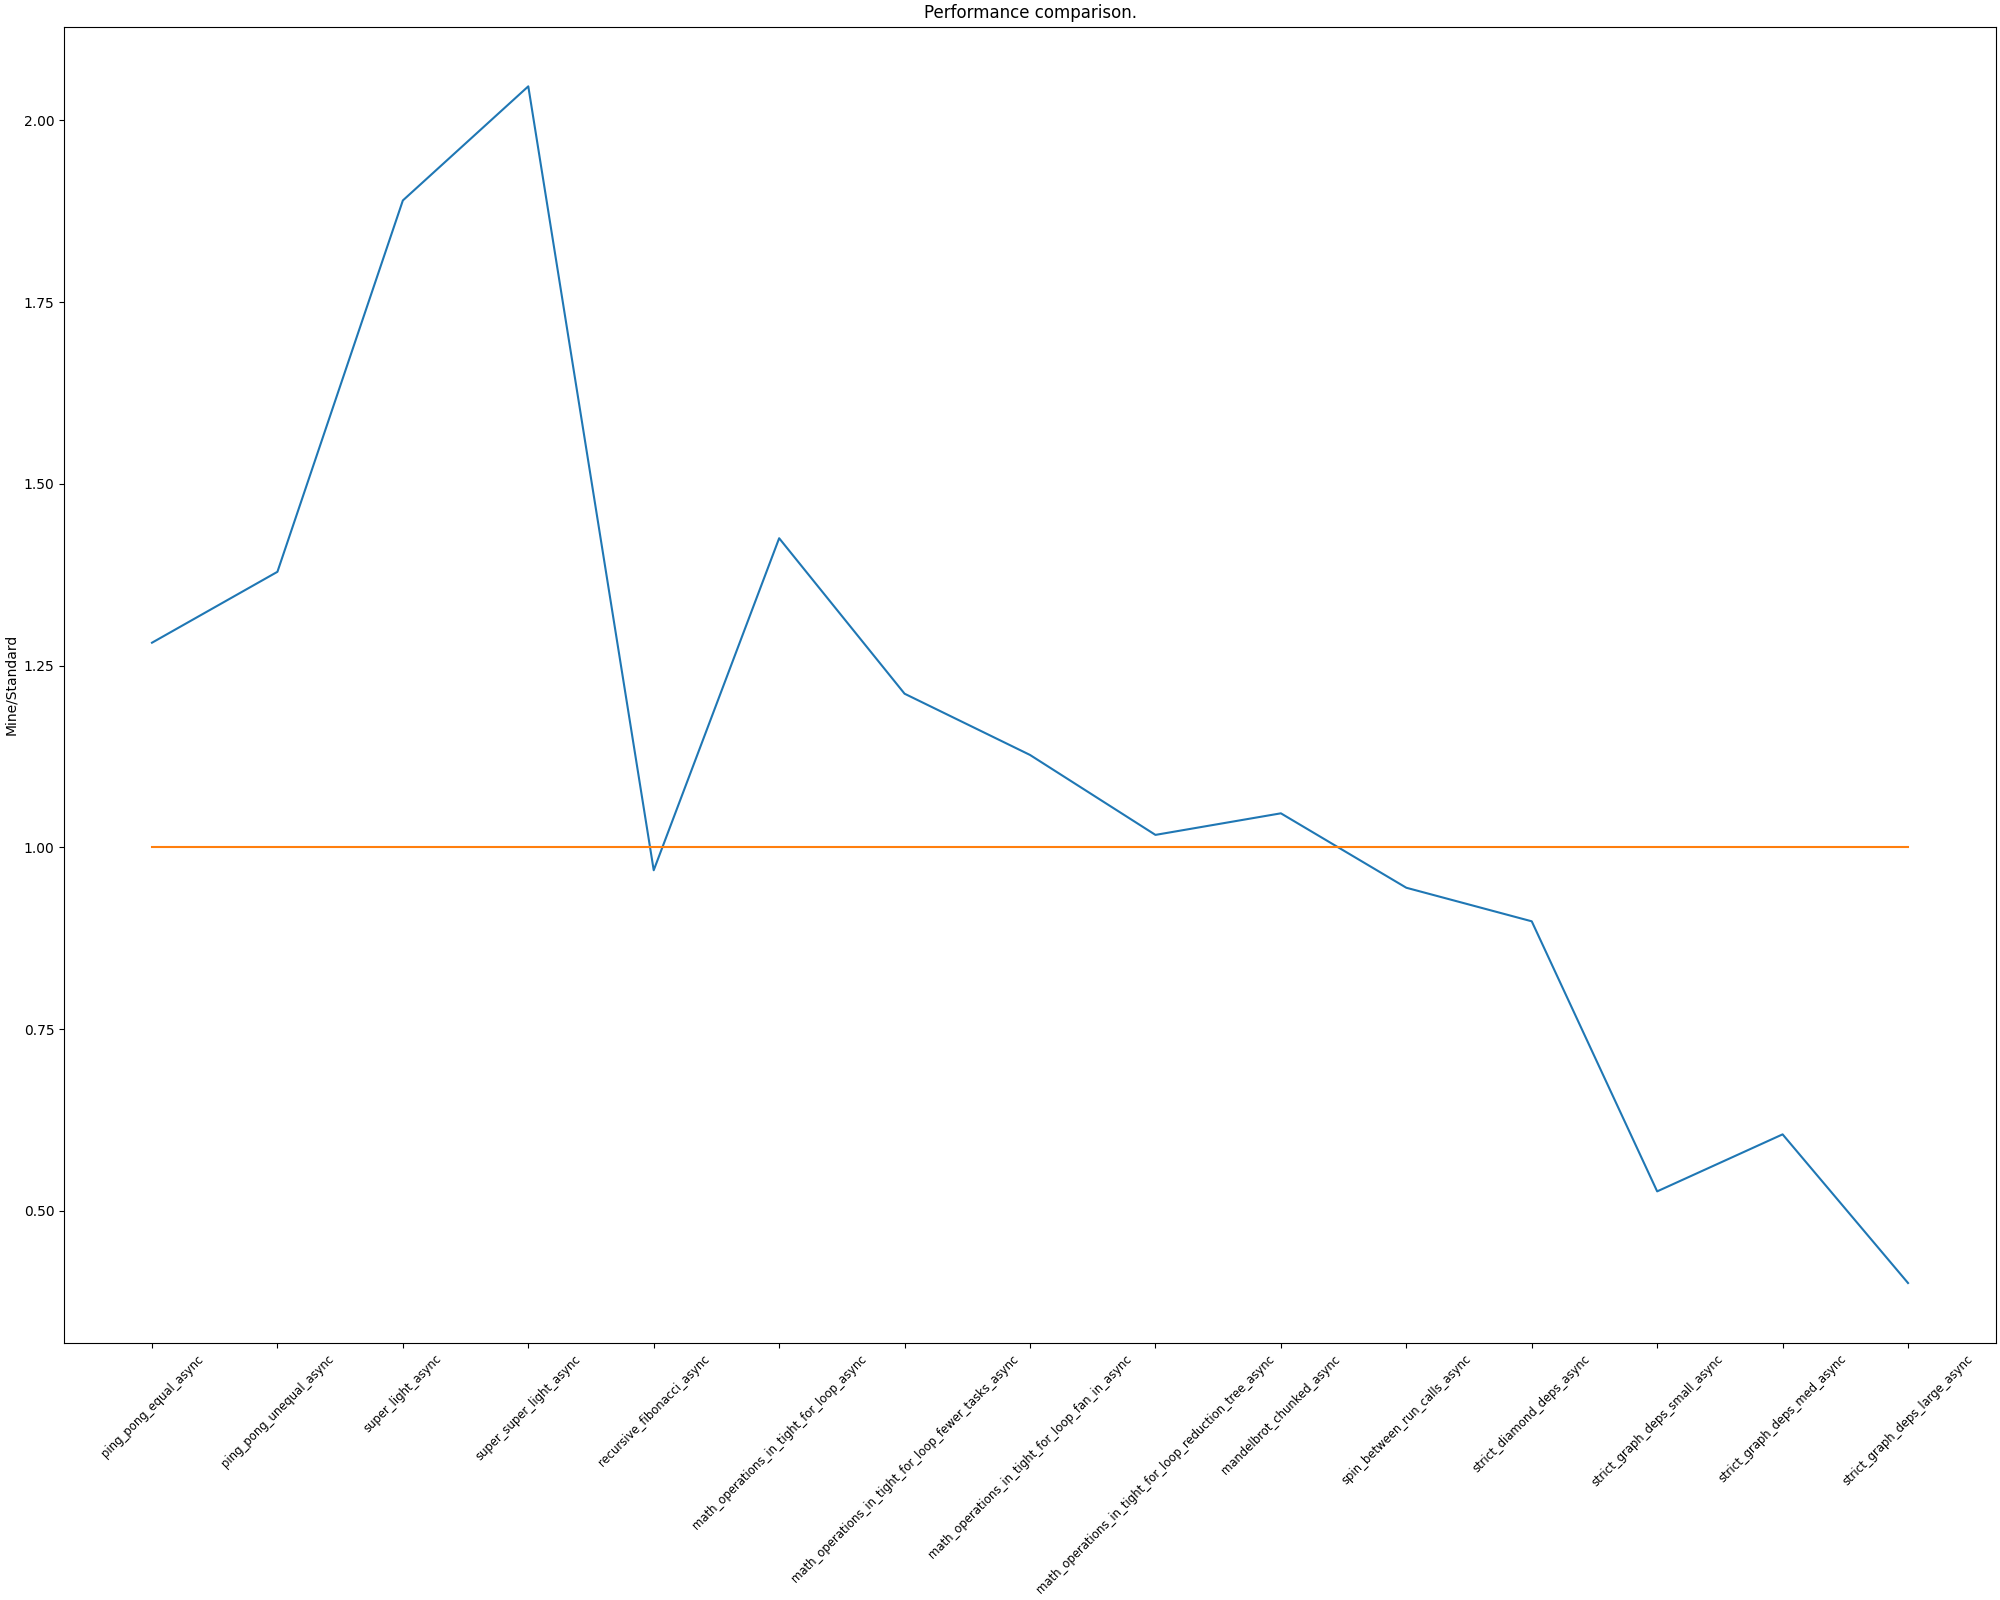
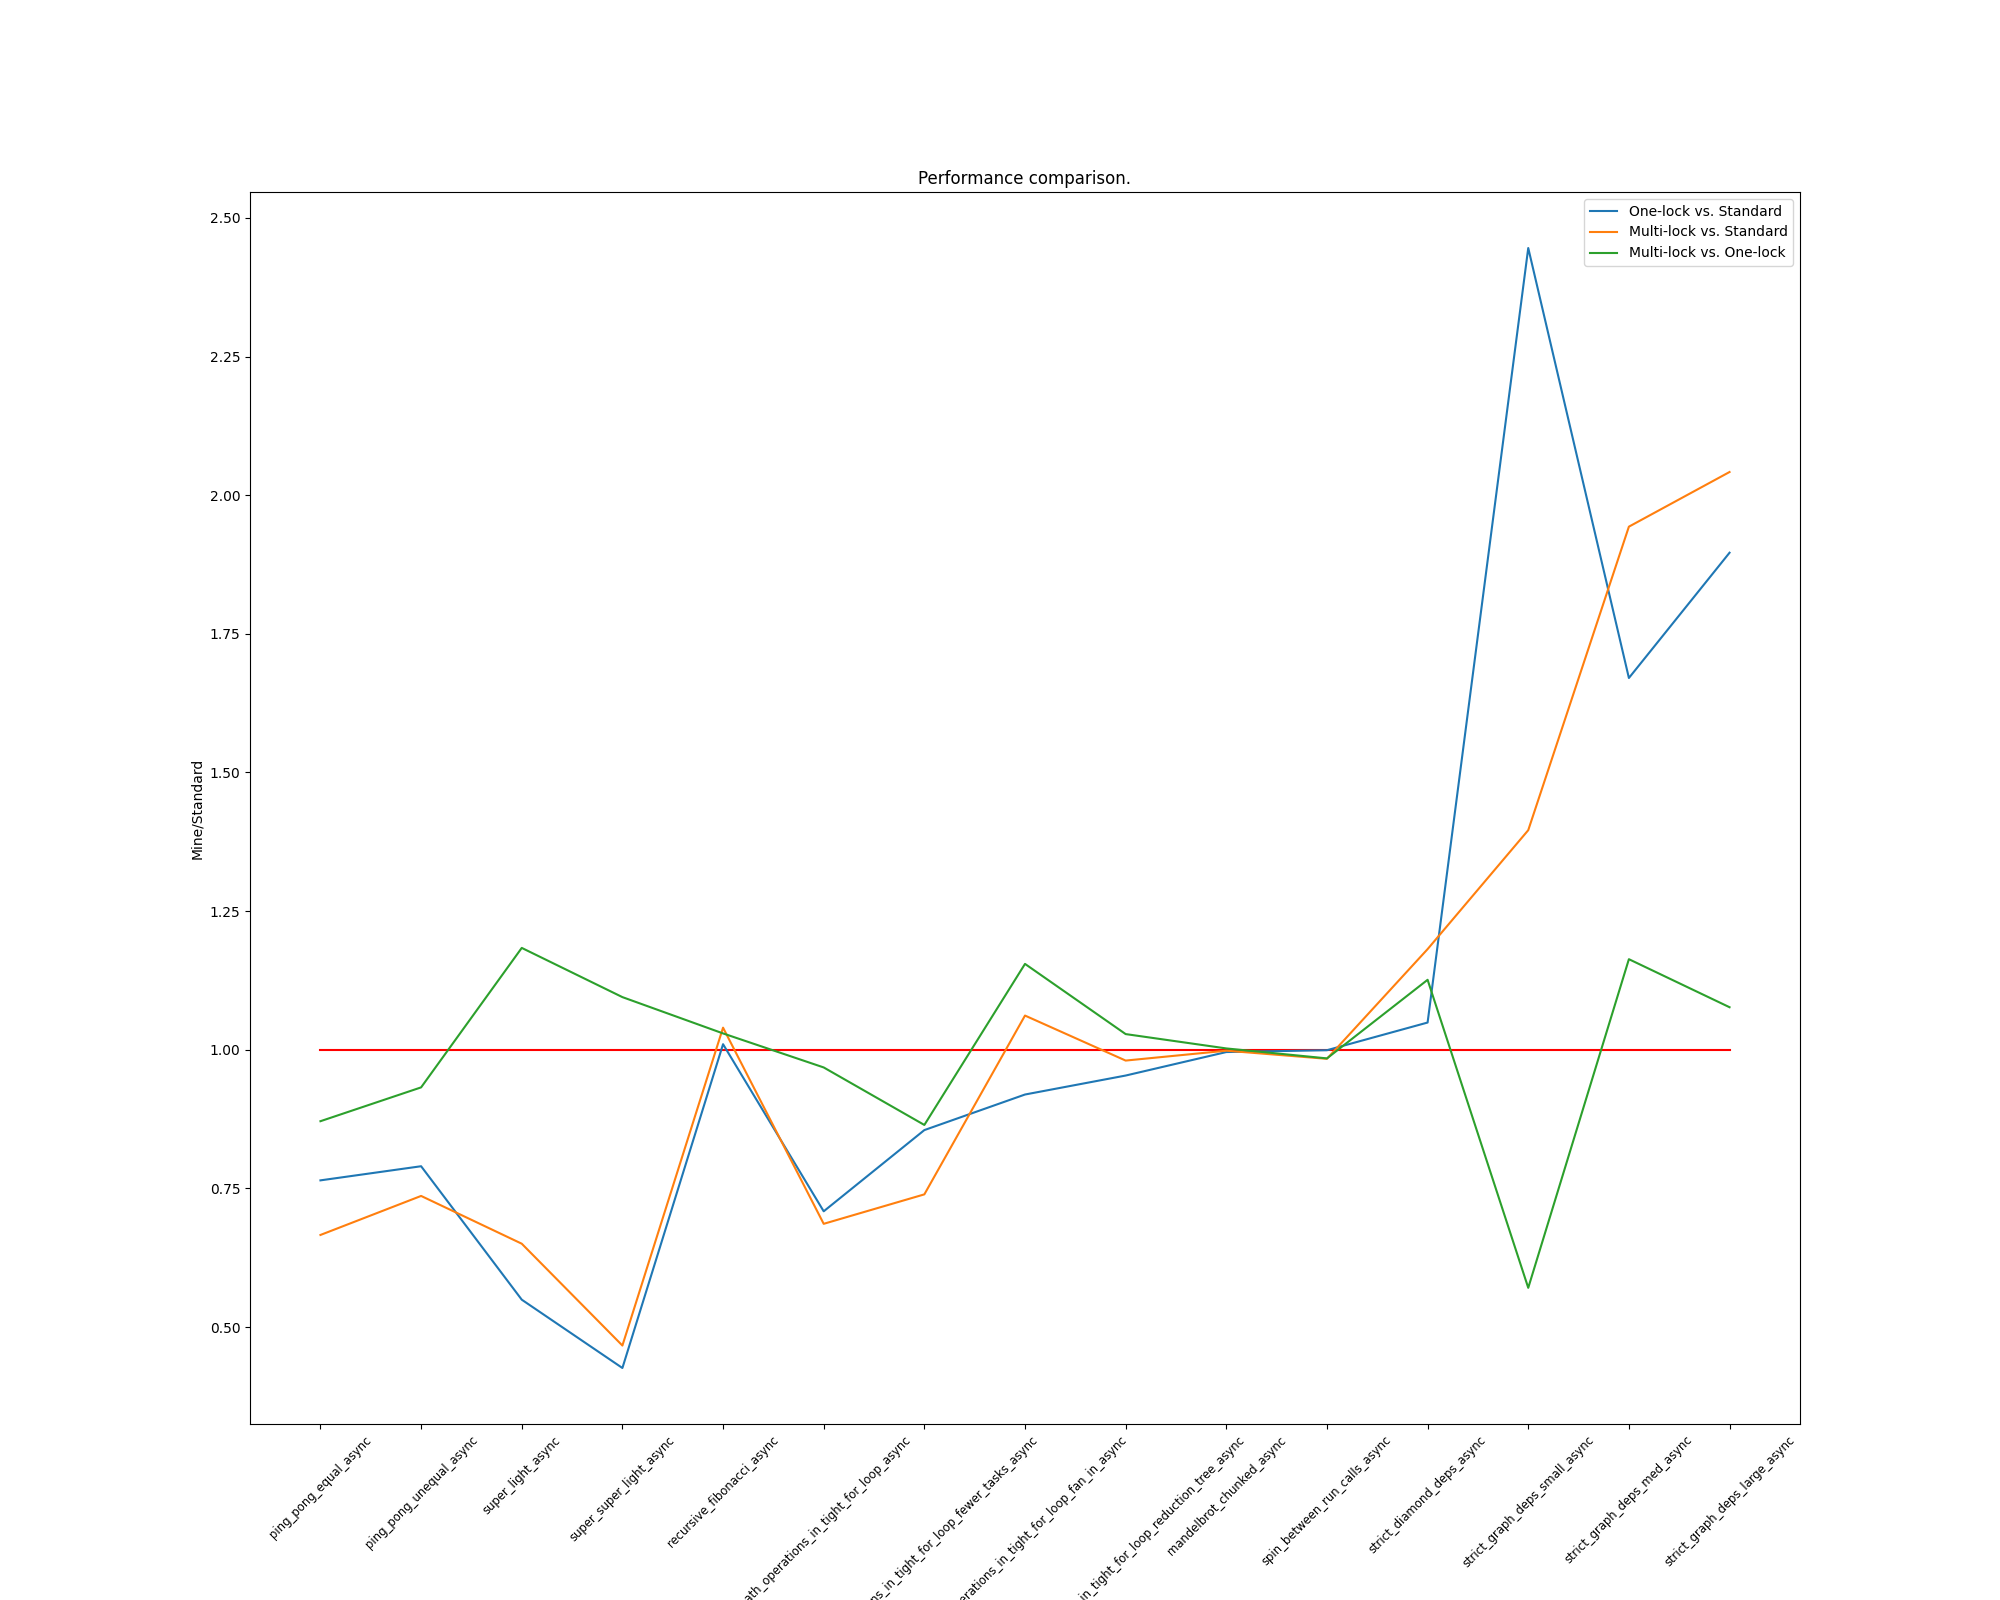
FINISH PROJ2 part_b

diff --git a/PROJ2/part_b/test.py b/PROJ2/part_b/test.py
@@ -1,4 +1,5 @@
 import matplotlib.pyplot as plt
+import numpy as np
 import os
 
 tests = ["ping_pong_equal_async", "ping_pong_unequal_async",
@@ -8,39 +9,87 @@ tests = ["ping_pong_equal_async", "ping_pong_unequal_async",
           "mandelbrot_chunked_async", "spin_between_run_calls_async", "strict_diamond_deps_async",
           "strict_graph_deps_small_async", "strict_graph_deps_med_async", "strict_graph_deps_large_async"]
 
-myres = []
+myonelockres = []
+mymultilockres = []
 standardres = []
 rate = []
 
-def find_time(output: str):
+def find_last_time(output: str):
   start = output.index("[Parallel + Thread Pool + Sleep]:") + len("[Parallel + Thread Pool + Sleep]:")
   start = output.index('[', start, -1) + 1
   end = output.index(']', start, -1)
   return float(output[start:end])
 
+def find_first_time(output: str):
+  start = output.index("[Serial]:") + len("[Serial]:") 
+  start = output.index('[', start) + 1
+  end = output.index(']', start)
+  return float(output[start:end])
 
 # for test in tests:
 #   cmd = "./runtasks -n 8 "+test 
 #   print(cmd)
 #   output = os.popen(cmd).read()
-#   myres.append(find_time(output))
+#   myonelockres.append(find_first_time(output))
+#   mymultilockres.append(find_last_time(output))
 #   cmd = "./runtasks_ref_linux -n 8 "+test 
 #   output = os.popen(cmd).read()
-#   standardres.append(find_time(output))
-# print(myres, "\n", standardres)
+#   standardres.append(find_last_time(output))
+# print(myonelockres, "\n", mymultilockres, "\n", standardres)
 
-myres = [349.043, 449.44, 73.885, 41.856, 272.917, 379.474, 139.449,
-          69.951, 58.108, 46.373, 312.98, 3.246, 2.27, 29.738, 191.187]
-standardres = [272.39, 325.931, 39.097, 20.45, 281.822, 266.272, 115.128,
-                62.067, 57.134, 44.303, 331.424, 3.614, 4.31, 49.145, 477.254]
+myonelockres_1 = [356.402, 551.445, 78.185, 49.263, 274.047, 420.67, 129.323, 68.295, 68.36, 47.217, 301.809, 3.478, 2.598, 24.626, 182.516]
+mymultilockres_1 = [377.939, 512.189, 63.338, 42.504, 272.759, 399.53, 152.664, 68.789, 59.122, 44.515, 303.721, 3.276, 3.332, 21.168, 170.354]
+standardres_1 = [285.031, 307.679, 43.604, 21.311, 286.471, 276.436, 114.164, 65.728, 61.773, 44.442, 298.92, 4.158, 3.459, 46.221, 461.809]
 
-rate = [myres[i]/standardres[i] for i in range(len(myres))]
+myonelockres_2 = [316.13, 389.452, 71.356, 45.453, 278.874, 407.617, 145.129, 67.482, 60.224, 44.624, 299.006, 3.391, 1.823, 29.098, 195.996] 
+mymultilockres_2 = [373.614, 417.774, 68.582, 40.936, 265.067, 447.26, 157.817, 62.316, 66.994, 45.986, 315.61, 3.266, 3.329, 32.735, 170.098]
+standardres_2 = [304.634, 326.644, 42.353, 25.567, 272.659, 320.177, 125.873, 62.039, 57.427, 46.133, 309.1, 3.562, 3.425, 48.764, 472.062]
 
-fig, ax = plt.subplots(figsize=(20, 16), layout="constrained")
-ax.plot(tests, rate)
-ax.plot(tests, [1 for i in range(len(tests))])
-ax.set_xticks(tests)
-ax.set_xticklabels(tests, rotation=45, fontsize="small")
+myonelockres_3 = [334.869, 439.677, 79.941, 45.028, 271.935, 377.888, 139.749, 68.292, 63.534, 52.79, 309.997, 2.972, 2.439, 31.008, 176.883]
+mymultilockres_3 = [385.722, 486.862, 60.282, 48.254, 262.199, 406.946, 153.964, 58.433, 59.616, 45.149, 317.41, 2.639, 2.437, 24.249, 178.919]
+standardres_3 = [241.7, 340.985, 42.619, 19.105, 276.736, 268.816, 110.597, 69.102, 60.953, 46.248, 301.105, 3.237, 3.402, 45.774, 335.422]
+
+myonelockres_4 = [320.384, 476.45, 77.685, 44.824, 269.936, 433.389, 141.863, 68.717, 64.171, 46.155, 311.468, 3.141, 1.391, 31.873, 181.893]
+mymultilockres_4 = [362.854, 435.561, 62.106, 50.929, 280.061, 421.222, 160.469, 61.799, 58.566, 46.034, 313.646, 2.828, 3.401, 27.905, 168.934] 
+standardres_4 = [289.219, 346.98, 44.77, 22.464, 292.874, 269.728, 115.456, 65.023, 63.611, 48.308, 330.338, 3.118, 4.0, 41.135, 466.622]
+
+myonelockres_5 = [329.622, 475.293, 80.558, 48.51, 270.873, 386.973, 145.162, 73.041, 63.859, 47.185, 302.338, 3.692, 2.47, 27.399, 180.094]
+mymultilockres_5 = [385.613, 504.416, 60.838, 48.169, 268.084, 390.315, 149.598, 67.558, 62.777, 44.535, 315.505, 2.827, 3.518, 28.423, 164.277]
+standardres_5 = [275.863, 340.927, 39.204, 19.322, 284.676, 267.832, 118.309, 63.447, 60.513, 45.109, 298.777, 3.577, 4.559, 48.453, 466.751]
+
+myonelockres = [min(myonelockres_1[i], myonelockres_2[i], myonelockres_3[i], myonelockres_4[i], myonelockres_5[i]) 
+                for i in range(len(tests))]
+mymultilockres = [min(mymultilockres_1[i], mymultilockres_2[i], mymultilockres_3[i], mymultilockres_4[i], mymultilockres_5[i]) 
+                for i in range(len(tests))]
+standardres = [min(standardres_1[i], standardres_2[i], standardres_3[i], standardres_4[i], standardres_5[i]) 
+                for i in range(len(tests))]
+
+myonelockres = np.array(myonelockres)
+mymultilockres = np.array(mymultilockres)
+standardres = np.array(standardres)
+
+rate1 = [standardres[i] / myonelockres[i] for i in range(len(tests))]
+rate2 = [standardres[i] / mymultilockres[i] for i in range(len(tests))]
+rate3 = [myonelockres[i] / mymultilockres[i] for i in range(len(tests))]
+
+x = np.arange(len(tests))
+total_width, n = 0.8, 3
+width = total_width / n
+total_width, n = 0.8, 3
+width = total_width / n
+x = x - (total_width - width) / 2
+
+fig, ax = plt.subplots(figsize=(20, 16))
+# ax.plot(tests, [1 for i in range(len(tests))], 'r')
+# ax.plot(tests, rate1, label = "One-lock vs. Standard")
+# ax.plot(tests, rate2, label = "Multi-lock vs. Standard")
+# ax.plot(tests, rate3, label = "Multi-lock vs. One-lock")
+plt.bar(x - width, myonelockres, width=width, label="One-lock")
+plt.bar(x , mymultilockres, width=width, label="Multi-lock")
+plt.bar(x + width, standardres, width=width, label="Standard")
+ax.legend()
+ax.set_xticks(x)
+ax.set_xticklabels(tests, rotation=30, fontsize="small")
 ax.set_ylabel("Mine/Standard")
 ax.set_title("Performance comparison.")
-fig.savefig("rate.png")
+fig.savefig("performance.png")

diff --git a/PROJ2/part_b/tasksys.cpp b/PROJ2/part_b/tasksys.cpp
@@ -38,22 +38,20 @@ TaskSystemParallelThreadPoolSleeping::TaskSystemParallelThreadPoolSleeping(int n
                     // printf("TaskID: %d, TaskIndex: %d\n", task.second.second, task.second.first);
                     int task_id = task.second.second;
                     task_state_mtx_.lock();
-                    if (task_state_.count(task_id) == 0) {
-                       throw std::runtime_error("Depend on tasks not created."); 
-                    }
-                    int num_total_tasks = task_state_[task_id].second;
+                    auto task_info = task_state_[task_id];
                     task_state_mtx_.unlock();
+                    int num_total_tasks = task_info->num_total_tasks_;
 
                     task.first->runTask(task.second.first, num_total_tasks);
 
-                    task_state_mtx_.lock();
-                    if (++task_state_[task_id].first == num_total_tasks) {
+                    task_info->task_mtx_->lock();
+                    if (++task_info->num_finish_tasks_ == num_total_tasks) {
                         // printf("TaskID: %d All Done, notify the thread.\n", task_id);
-                        task_finish_cv_[task_id].notify_all();
+                        task_info->task_finish_cv_->notify_all();
                         task_sync_cv_.notify_all();
-                        task_state_mtx_.unlock();
+                        task_info->task_mtx_->unlock();
                     } else {
-                        task_state_mtx_.unlock();
+                        task_info->task_mtx_->unlock();
                     }
 
                     guard.lock();
@@ -117,16 +115,16 @@ TaskID TaskSystemParallelThreadPoolSleeping::runAsyncWithDeps(IRunnable* runnabl
 
     std::vector<TaskID> not_finished_task{};
     task_state_mtx_.lock();
-    task_state_[task_id] = {0, num_total_tasks};
     for (auto id: deps) {
-        if (task_state_.count(id)) {
-            if (task_state_[id].first != task_state_[id].second) {
+        if (task_state_.size() > id) {
+            if (task_state_[id]->num_finish_tasks_ != task_state_[id]->num_total_tasks_) {
                 not_finished_task.emplace_back(id);
             }
         } else {
             throw std::runtime_error("Depend on tasks not created.");
         }
     }
+    task_state_.push_back(std::make_shared<TaskInfo>(task_id, num_total_tasks));
     task_state_mtx_.unlock();
 
 
@@ -147,14 +145,18 @@ TaskID TaskSystemParallelThreadPoolSleeping::runAsyncWithDeps(IRunnable* runnabl
 
             // for (size_t i=0; i<not_finished_task.size(); i++)
             //     threads[i].join();
-            std::unique_lock<std::mutex> guard{task_state_mtx_};
             for (size_t i=0; i<not_finished_task.size(); i++) {
                 int task_id = not_finished_task[i];
-                task_finish_cv_[task_id].wait(guard, [this, task_id] {
-                    return task_state_[task_id].first == task_state_[task_id].second;
+
+                task_state_mtx_.lock();
+                auto task_info = task_state_[task_id];
+                task_state_mtx_.unlock();
+
+                std::unique_lock<std::mutex> guard{*(task_info->task_mtx_)};
+                task_info->task_finish_cv_->wait(guard, [task_info, task_id] {
+                    return task_info->num_finish_tasks_ == task_info->num_total_tasks_;
                 });
             }
-            guard.unlock();
             launchTask(task_id, runnable, num_total_tasks);
         }};
         t1.detach();
@@ -167,7 +169,8 @@ void TaskSystemParallelThreadPoolSleeping::sync() {
     std::unique_lock<std::mutex> guard{task_state_mtx_};
     task_sync_cv_.wait(guard, [this] {
         for (auto& x: task_state_) {
-            if (x.second.first != x.second.second) {
+            std::lock_guard<std::mutex> guard(*(x->task_mtx_));
+            if (x->num_finish_tasks_ != x->num_total_tasks_) {
                 return false;
             }
         }
@@ -286,6 +289,11 @@ void TaskSystemSerial::launchTask(int task_id, IRunnable* runnable, int num_tota
 TaskID TaskSystemSerial::runAsyncWithDeps(IRunnable* runnable, int num_total_tasks,
                                                     const std::vector<TaskID>& deps) {
     int task_id = task_id_++;
+
+    // printf("Task %d dependes on {", task_id);
+    // for (auto id: deps)  printf("%d ", id);
+    // printf("}\n");
+
     std::vector<TaskID> not_finished_task{};
     task_state_mtx_.lock();
     task_state_[task_id] = {0, num_total_tasks};
@@ -305,19 +313,19 @@ TaskID TaskSystemSerial::runAsyncWithDeps(IRunnable* runnable, int num_total_tas
         launchTask(task_id, runnable, num_total_tasks);
     } else {
         std::thread t1{[=] {
-            std::unique_lock<std::mutex> guard{task_state_mtx_};
             for (size_t i=0; i<not_finished_task.size(); i++) {
+                std::unique_lock<std::mutex> guard{task_state_mtx_};
                 int task_id = not_finished_task[i];
                 task_finish_cv_[task_id].wait(guard, [this, task_id] {
                     if (task_state_[task_id].first == task_state_[task_id].second) {
                         // printf("Received signal from TASKID: %d\n", task_id);
                         return true;
                     }
+                    // printf("Wait TaskID: %d\n", task_id);
                     return false;
                     // return task_state_[task_id].first == task_state_[task_id].second;
                 });
             }
-            guard.unlock();
             launchTask(task_id, runnable, num_total_tasks);
         }};
         t1.detach();

diff --git a/PROJ2/part_b/tasksys.h b/PROJ2/part_b/tasksys.h
@@ -19,11 +19,28 @@
  */
 class TaskSystemParallelThreadPoolSleeping: public ITaskSystem {
     private:
+        class TaskInfo {
+        public:
+            std::condition_variable* task_finish_cv_;
+            std::mutex* task_mtx_;
+
+            int num_finish_tasks_ = 0;
+            int num_total_tasks_;
+
+            int task_id_;
+            TaskInfo(int t, int n): task_id_(t), num_total_tasks_(n) {
+                task_finish_cv_ = new std::condition_variable();
+                task_mtx_ = new std::mutex();
+            }
+
+            ~TaskInfo() {
+                delete task_finish_cv_;
+                delete task_mtx_;
+            }
+        };
+
         std::condition_variable task_queue_cv_;
         std::mutex task_queue_mtx_;
-
-        // Managed by task_state_mtx_
-        std::unordered_map<TaskID, std::condition_variable> task_finish_cv_;
 
         std::mutex task_exit_mtx_;
         std::condition_variable task_exit_cv_;
@@ -32,10 +49,9 @@ class TaskSystemParallelThreadPoolSleeping: public ITaskSystem {
         std::queue<std::pair<IRunnable *, std::pair<int, int>>> task_queue_;
         std::vector<std::thread> threads_;
 
-        // Store the finished tasks of the TaskID and num_total_tasks of the TaskID
         // Use the task_state_mtx_ to ensure the multi-thread security.
         std::mutex task_state_mtx_;
-        std::unordered_map<TaskID, std::pair<int, int>> task_state_;
+        std::vector<std::shared_ptr<TaskInfo>> task_state_;
         TaskID task_id_ = 0;
 
         std::condition_variable task_sync_cv_;

diff --git a/PROJ2/part_b/README.md b/PROJ2/part_b/README.md
@@ -1,4 +1,33 @@
 Summary
 ---
 - Use mulitple condition variables, which is efficient.
-- An error very unusual: i put the `unlock()` before the `nofify_one()`, which causes some segment faults or deadlock from time to time.
+  - At the beginning, use one thread to wait for one unfinished task.
+  - But it will create too many threads.
+  - Instead, use one thread to wait for multiple tasks.
+  - However, **this method requires to put the `nofify_all()` within the lock.**
+- An error very unusual: i put the `unlock()` before the `nofify_all()`, which causes the deadlock from time to time.
+  - The signal from one task is blocked.
+  - The log is like: `Wait Task 47......TaskID: 47 All Done, notify the thread.`
+  - Why?
+    - Think a few hours -> I don't know.
+    - When using multiple threads to wait, it is correct though.
+
+- Redesign
+  - 
+  - [Nested class](https://en.cppreference.com/w/cpp/language/nested_types)
+  - To get the task info, we still need to get the `task_state_mtx_`. Because the `std::vector` is not thread-safe.
+  - But now each task has their own lock, so their requests can be handled concurrently.
+  - The speedup depends on the complexity of depending tasks.
+  - In many situations, it is not obvious.
+
+Test
+---
+- The test is stupid, so i rewrite a test.
+- I hardcode the data, because i'm not familiar with the matplotlib. So  i change the code frequently. I don't want to wait.
+- I test 5 times and choose the minimum of each test.
+
+Result
+---
+![](performance.png)
+- In many situations, the standard solution is better.
+- In some specfic situations like the `strict_graph_deps_large_async`, my solution overwhelms the standard solution.
